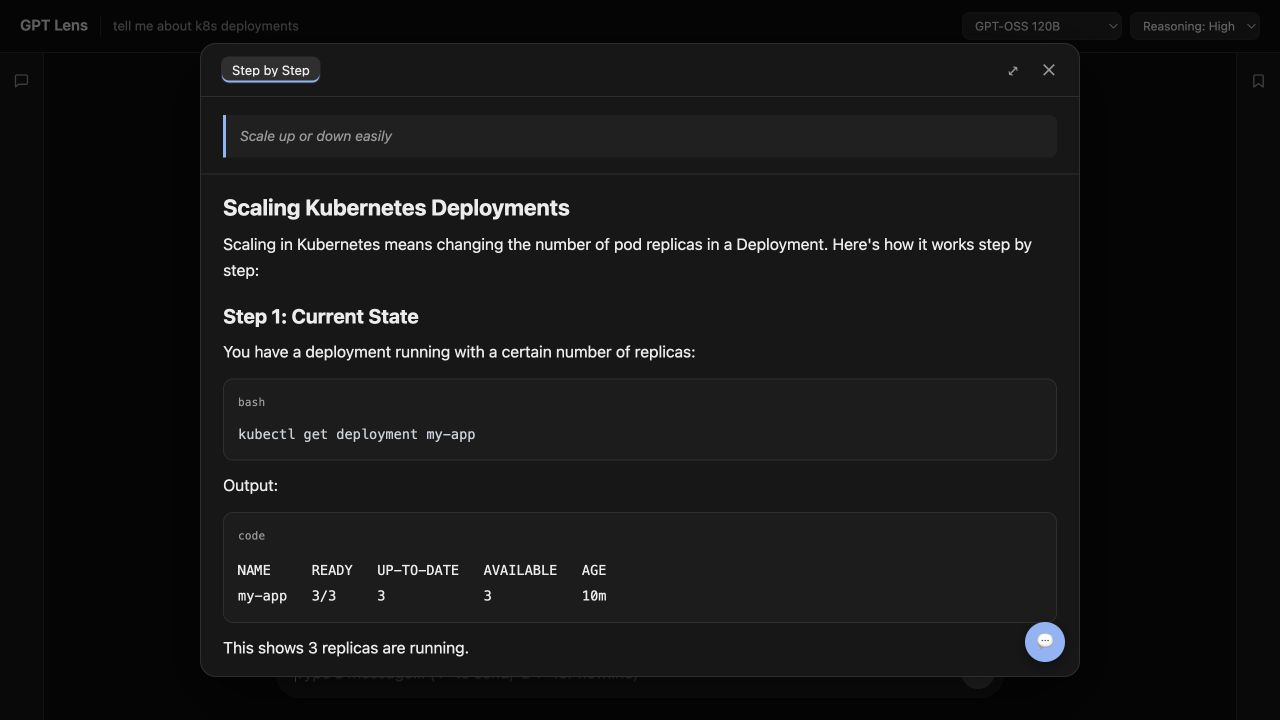
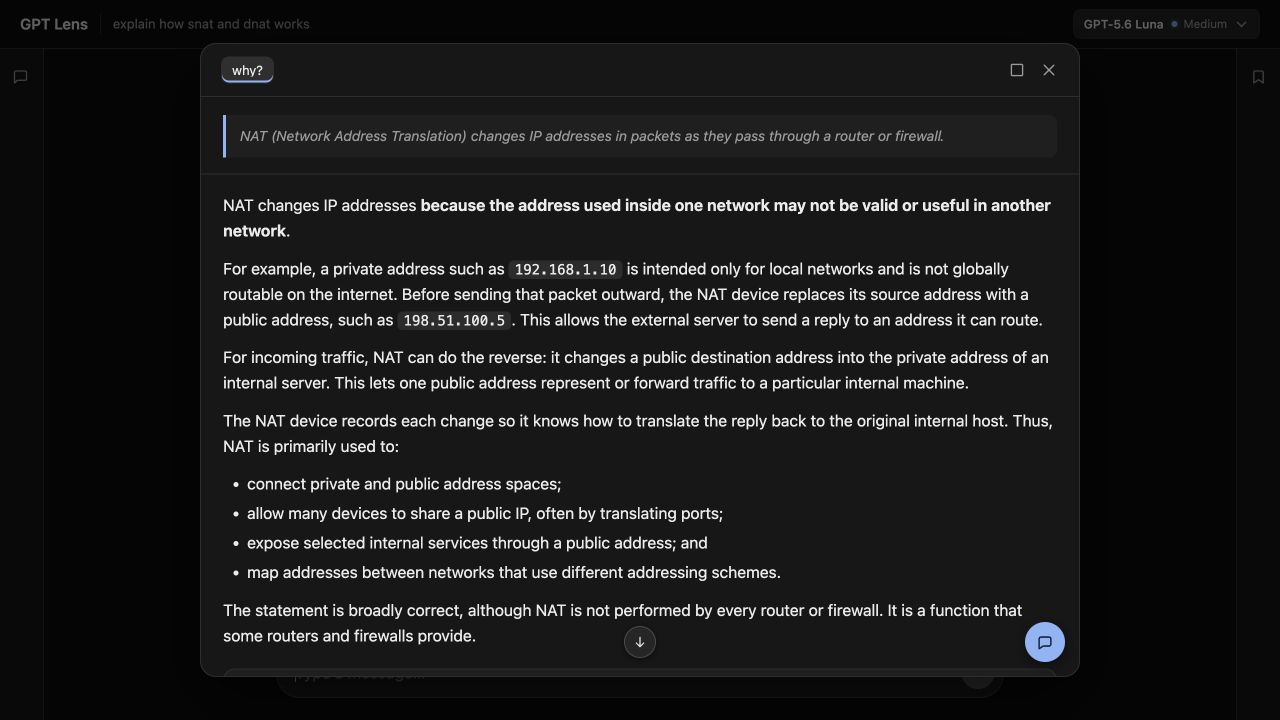
Refresh README and screenshots

diff --git a/README.md b/README.md
@@ -4,7 +4,7 @@ GPT Lens is an AI chat app designed for learning and exploring answers in depth.
 
 Its main feature is simple: highlight any part of an AI response, then ask GPT Lens to explain it, give an example, show code, break it into steps, or go deeper. The new explanation opens separately, so you can explore without losing your original conversation.
 
-![GPT Lens home screen](docs/screenshots/gpt-lens-home.jpg)
+![GPT Lens welcome screen with starter prompts and selection actions](docs/screenshots/gpt-lens-home.jpg)
 
 ## What you can do
 
@@ -15,10 +15,11 @@ Its main feature is simple: highlight any part of an AI response, then ask GPT L
 - Move between earlier explanations without losing your place.
 - Ask follow-up questions inside an explanation.
 - Save chats and drill-down sessions automatically on your computer.
+- Search saved chats by title or message content.
 - Render Markdown, tables, and syntax-highlighted code.
 - Optionally import a webpage or supported AI conversation with the Chrome extension.
 
-![GPT Lens drill-down modal](docs/screenshots/gpt-lens-drilldown.jpg)
+![GPT Lens drill-down modal showing a contextual explanation](docs/screenshots/gpt-lens-drilldown.jpg)
 
 ## Before you start
 
@@ -100,7 +101,7 @@ To stop GPT Lens, return to the terminal and press `Ctrl+C`.
 6. Highlight text inside that explanation to create another drill-down tab.
 7. Use the saved chats on the left and saved sessions on the right to revisit earlier work.
 
-The model and reasoning controls are in the top-right corner. More capable models may produce better answers but can cost more or respond more slowly. Prices shown in the app are OpenRouter estimates per million input and output tokens.
+The model and reasoning controls are in the top-right corner. The model picker groups the curated choices by capability and shows current OpenRouter pricing when that metadata is available. Reasoning choices automatically match the selected model's supported effort levels. More capable models may produce better answers but can cost more or respond more slowly.
 
 ## Optional Chrome extension
 
@@ -179,7 +180,7 @@ EXTRA_CONTEXT=true
 - `PORT` changes the local server port.
 - `OPENROUTER_MODEL` selects the initial model for a fresh database.
 - `OPENROUTER_MAX_TOKENS` limits the maximum generated response length.
-- `OPENROUTER_REASONING` selects the initial reasoning level.
+- `OPENROUTER_REASONING` selects the initial reasoning level: `off`, `minimal`, `low`, `medium`, `high`, `xhigh`, or `max`.
 - `OPENROUTER_BASE_URL` changes the compatible API endpoint.
 - `EXTRA_CONTEXT=true` gives drill-down requests the main conversation and their ancestor explanations. This usually improves continuity but can use more input tokens.
 
